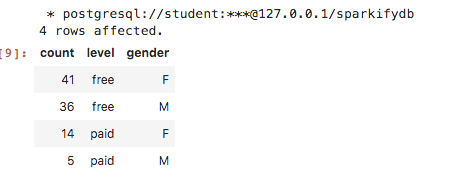
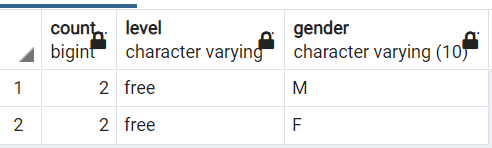
commit img content

diff --git a/README.md b/README.md
@@ -74,18 +74,19 @@ It then transforms and loads the data into the five tables of the sparkifydb dat
 
 #### Loading the Data and Running ETL Pipeline
 
-All the code I wrote in `etl.ipynb` I then used to complete `etl.py`, which reads and processes all the files from the song_data and log_data directories, and loads them into the sparkifydb database tables.
+The codes are first written in `etl.ipynb` file and then used to complete `etl.py`.
+The `etl.py`reads and processes all the files from the song_data and log_data directories, and loads them into the sparkifydb database tables.
 
 The steps to run the pipeline are as follows:
 
 1. In a terminal, run `python create_tables.py` to reset the tables in the sparkifydb database.
-2. Running `test.ipynb` (in a jupyter notebook) confirms that the tables were successfully created with the correct columns.
+2. Running `test.ipynb` (in a jupyter notebook or jupyter lab) confirms that the tables were successfully created with the correct columns.
 3. In a terminal, run `python etl.py` to process all the datasets.
 4. Again, running `test.ipynb` confirms that the records were successfully inserted into each table.
 
 #### Sample Queries
 
 Get the number of paid and free plans by gender: <br>
-`%sql SELECT count(users.user_id), users.level, users.gender FROM users GROUP BY users.level, users.gender`
+`%sql SELECT count(user_id), level, gender FROM users GROUP BY level, gender`
 
 ![](img/sql_query.png)
